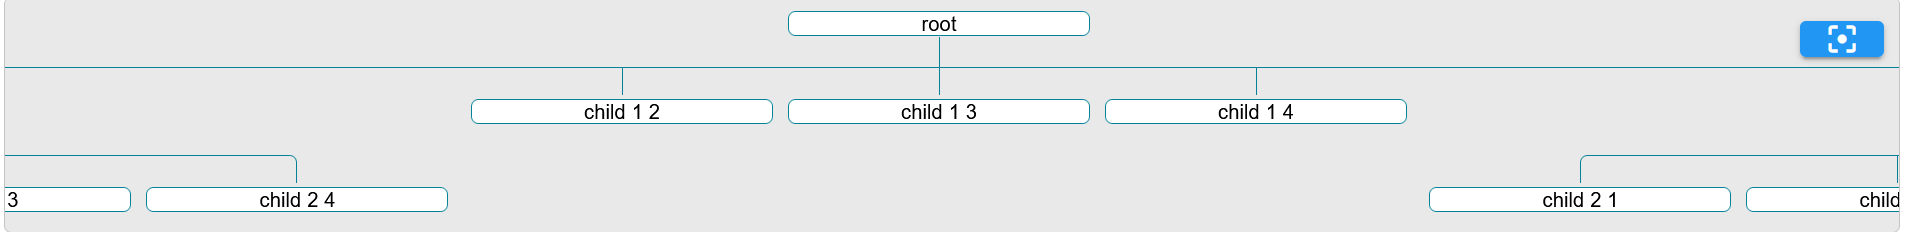
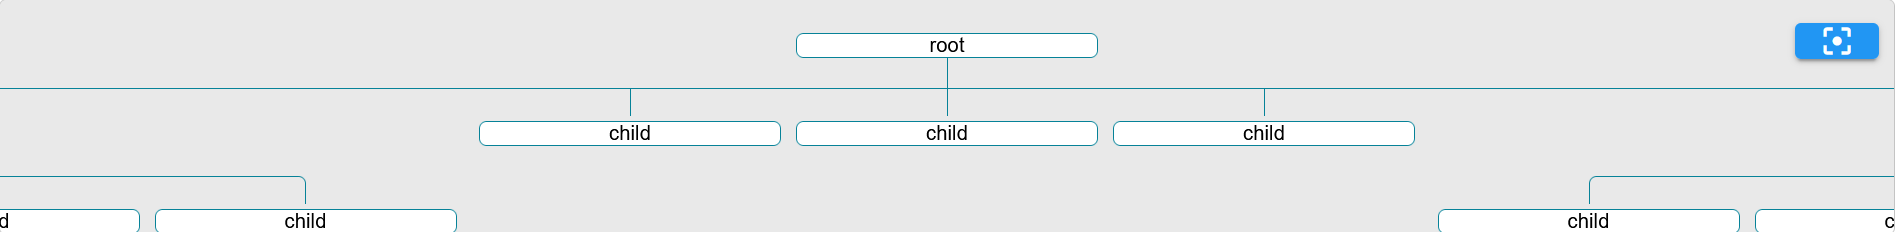
correcctions of import

diff --git a/test/index.vue b/test/index.vue
@@ -7,7 +7,7 @@
                     <div style="widht:100%;background-color:#e0726f;padding:5px" >{{ node.name }}</div>
                     <div>
                         <img style="float:left" width="50" height="50" src="https://www.fillmurray.com/200/200" alt="Imagen">
-                        {{ node.name }} {{ parent ? parent.name : '' }}
+                        {{ node.name }}  {{ parent ? `Parent: ${parent.name}` : '' }}
                     </div>
                 </template> -->
             </flow-chart>
@@ -18,7 +18,9 @@
 </template>
 
 <script>
+    import { FlowChart } from '@/';
     export default {
+        components:{FlowChart},
         data:()=>{
             return{
                 tree: [
@@ -27,57 +29,57 @@
                         description: 'root description',
                         children:[
                             {
-                                name: 'child 1 1',
+                                name: 'child',
                                 description: 'description one',
                                 children:[
                                     {
-                                        name: 'child 2 1',
+                                        name: 'child',
                                         description: 'description one'
                                     },
                                     {
-                                        name: 'child 2 2',
+                                        name: 'child',
                                         description: 'description one'
                                     },
                                     {
-                                        name: 'child 2 3',
+                                        name: 'child',
                                         description: 'description one'
                                     },
                                     {
-                                        name: 'child 2 4',
+                                        name: 'child',
                                         description: 'description one'
                                     },
                                 ]
                             },
                             {
-                                name: 'child 1 2',
+                                name: 'child',
                                 description: 'description'
                             },
                             {
-                                name: 'child 1 3',
+                                name: 'child',
                                 description: 'description one'
                             },
                             {
-                                name: 'child 1 4',
+                                name: 'child',
                                 description: 'description one'
                             },
                             {
-                                name: 'child 1 5',
+                                name: 'child',
                                 description: 'description one',
                                 children:[
                                     {
-                                        name: 'child 2 1',
+                                        name: 'child',
                                         description: 'description one'
                                     },
                                     {
-                                        name: 'child 2 2',
+                                        name: 'child',
                                         description: 'description one'
                                     },
                                     {
-                                        name: 'child 2 3',
+                                        name: 'child',
                                         description: 'description one'
                                     },
                                     {
-                                        name: 'child 2 4',
+                                        name: 'child',
                                         description: 'description one'
                                     },
                                 ]

diff --git a/src/index.js b/src/index.js
@@ -1,6 +1,9 @@
 import "./scss/app.scss";
 import FlowChart from "./components/flow.vue";
 
+
+export { FlowChart };
+
 const install = function(Vue){
     if (install.installed) return;
     install.installed = true;
@@ -8,6 +11,5 @@ const install = function(Vue){
 }
 
 export default {
-    install,
-    FlowChart,
+    install
 }

diff --git a/README.md b/README.md
@@ -20,7 +20,10 @@ Vue.use(FlowChart);
 
 Implement like component
 ```js
-Vue.use(FlowChart);
+import { FlowChart } from 'vnode-flowchart';
+export default {
+    components:{FlowChart},
+}
 ```
 
 
@@ -43,8 +46,104 @@ Vue.use(FlowChart);
 | node | You can change desing from node |
 
 ## Examples
-[dill]: <https://github.com/joemccann/dillinger>
-[git-repo-url]: <https://github.com/joemccann/dillinger.git>
+
+```vue
+
+<template>
+    <flow-chart v-model="tree" />
+</template>
+<script>
+export default {
+    data:()=>{
+        return{
+            tree: [
+                {
+                    name: "root",
+                    description: 'root description',
+                    children:[
+                        {
+                            name: 'child',
+                            description: 'description one',
+                            children:[
+                                {
+                                    name: 'child',
+                                    description: 'description one'
+                                },
+                                {
+                                    name: 'child',
+                                    description: 'description one'
+                                },
+                                {
+                                    name: 'child',
+                                    description: 'description one'
+                                },
+                                {
+                                    name: 'child',
+                                    description: 'description one'
+                                },
+                            ]
+                        },
+                        {
+                            name: 'child',
+                            description: 'description'
+                        },
+                        {
+                            name: 'child',
+                            description: 'description one'
+                        },
+                        {
+                            name: 'child',
+                            description: 'description one'
+                        },
+                        {
+                            name: 'child',
+                            description: 'description one',
+                            children:[
+                                {
+                                    name: 'child',
+                                    description: 'description one'
+                                },
+                                {
+                                    name: 'child',
+                                    description: 'description one'
+                                },
+                                {
+                                    name: 'child',
+                                    description: 'description one'
+                                },
+                                {
+                                    name: 'child',
+                                    description: 'description one'
+                                },
+                            ]
+                        },
+                    ]
+                },
+                
+            ],
+        }
+    },
+}
+
+</script>
+```
+## 
+![example1](https://github.com/Tecnobyte/flowchart/blob/master/img/Screenshot_1.png?raw=true)
+```vue
+<template>
+    <flow-chart v-model="tree">
+        <template v-slot:node="{node, parent}">
+            <div style="widht:100%;background-color:#e0726f;padding:5px" >{{ node.name }}</div>
+            <div>
+                <img style="float:left" width="50" height="50" src="https://www.fillmurray.com/200/200" alt="Imagen">
+                {{ node.name }} {{ parent ? parent.name : '' }}
+            </div>
+        </template>
+    </flow-chart>
+</template>
+```
+##
+![example2](https://github.com/Tecnobyte/flowchart/blob/master/img/Screenshot_3.png?raw=true)
 
 
 ## License
